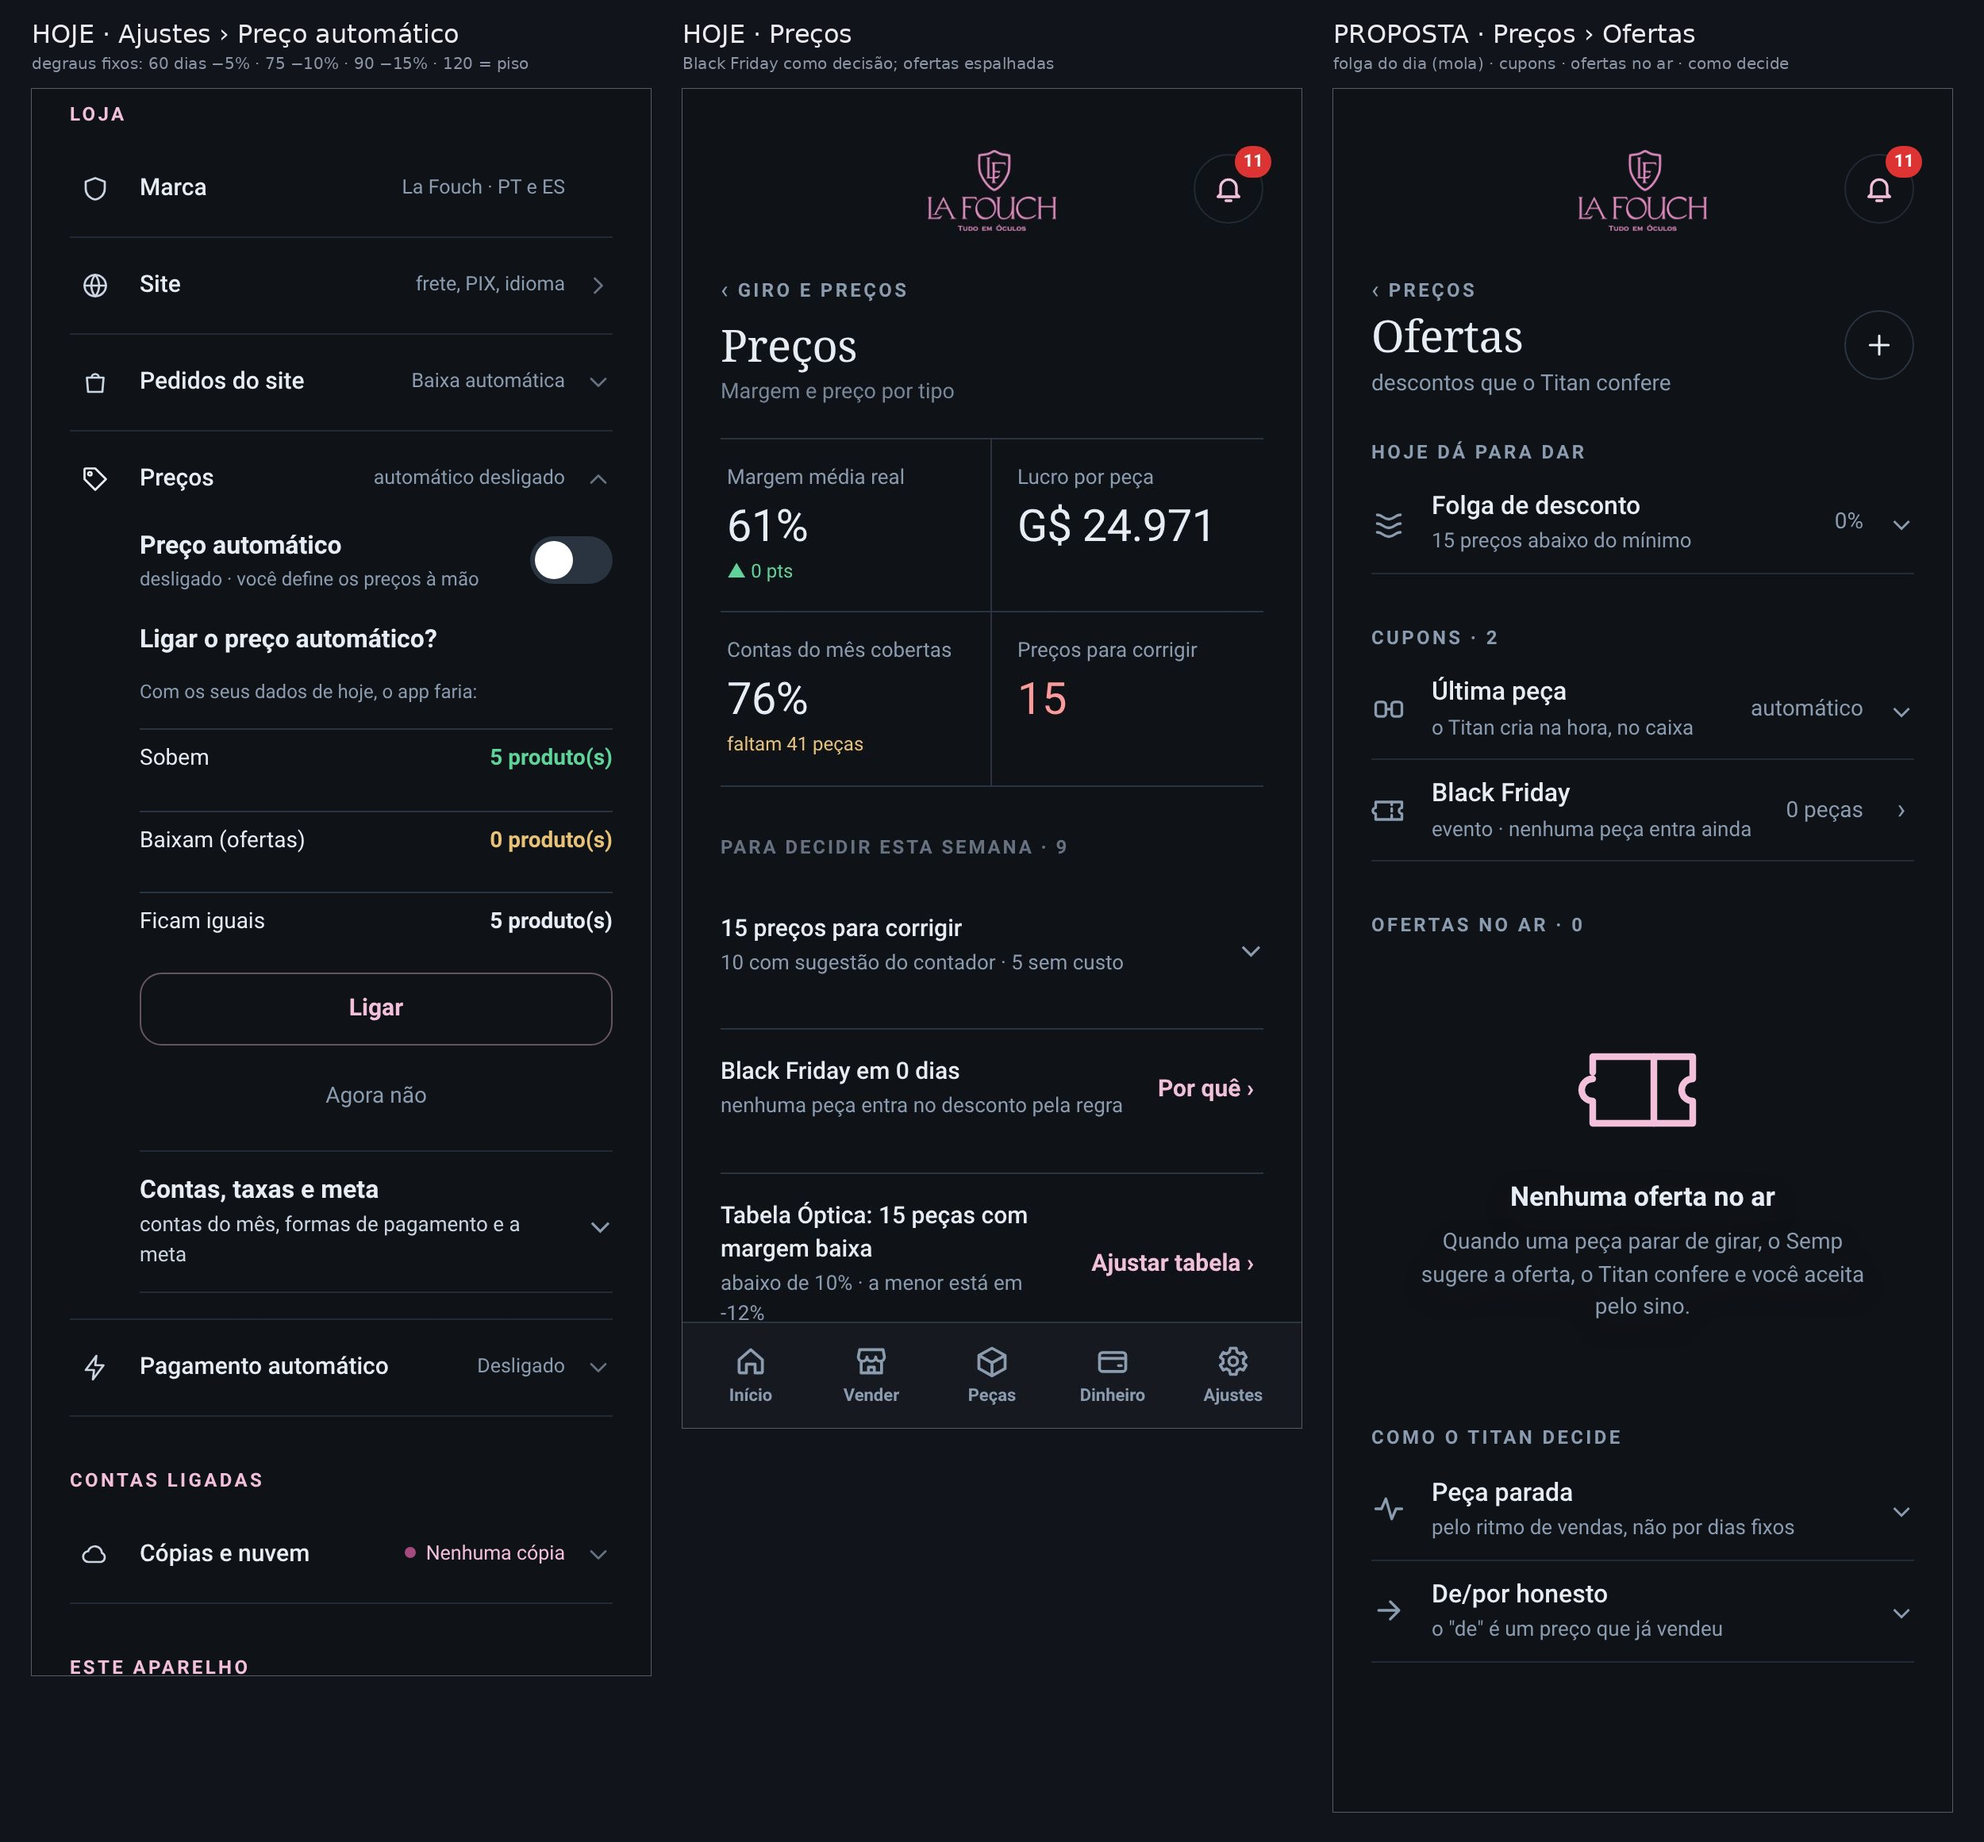
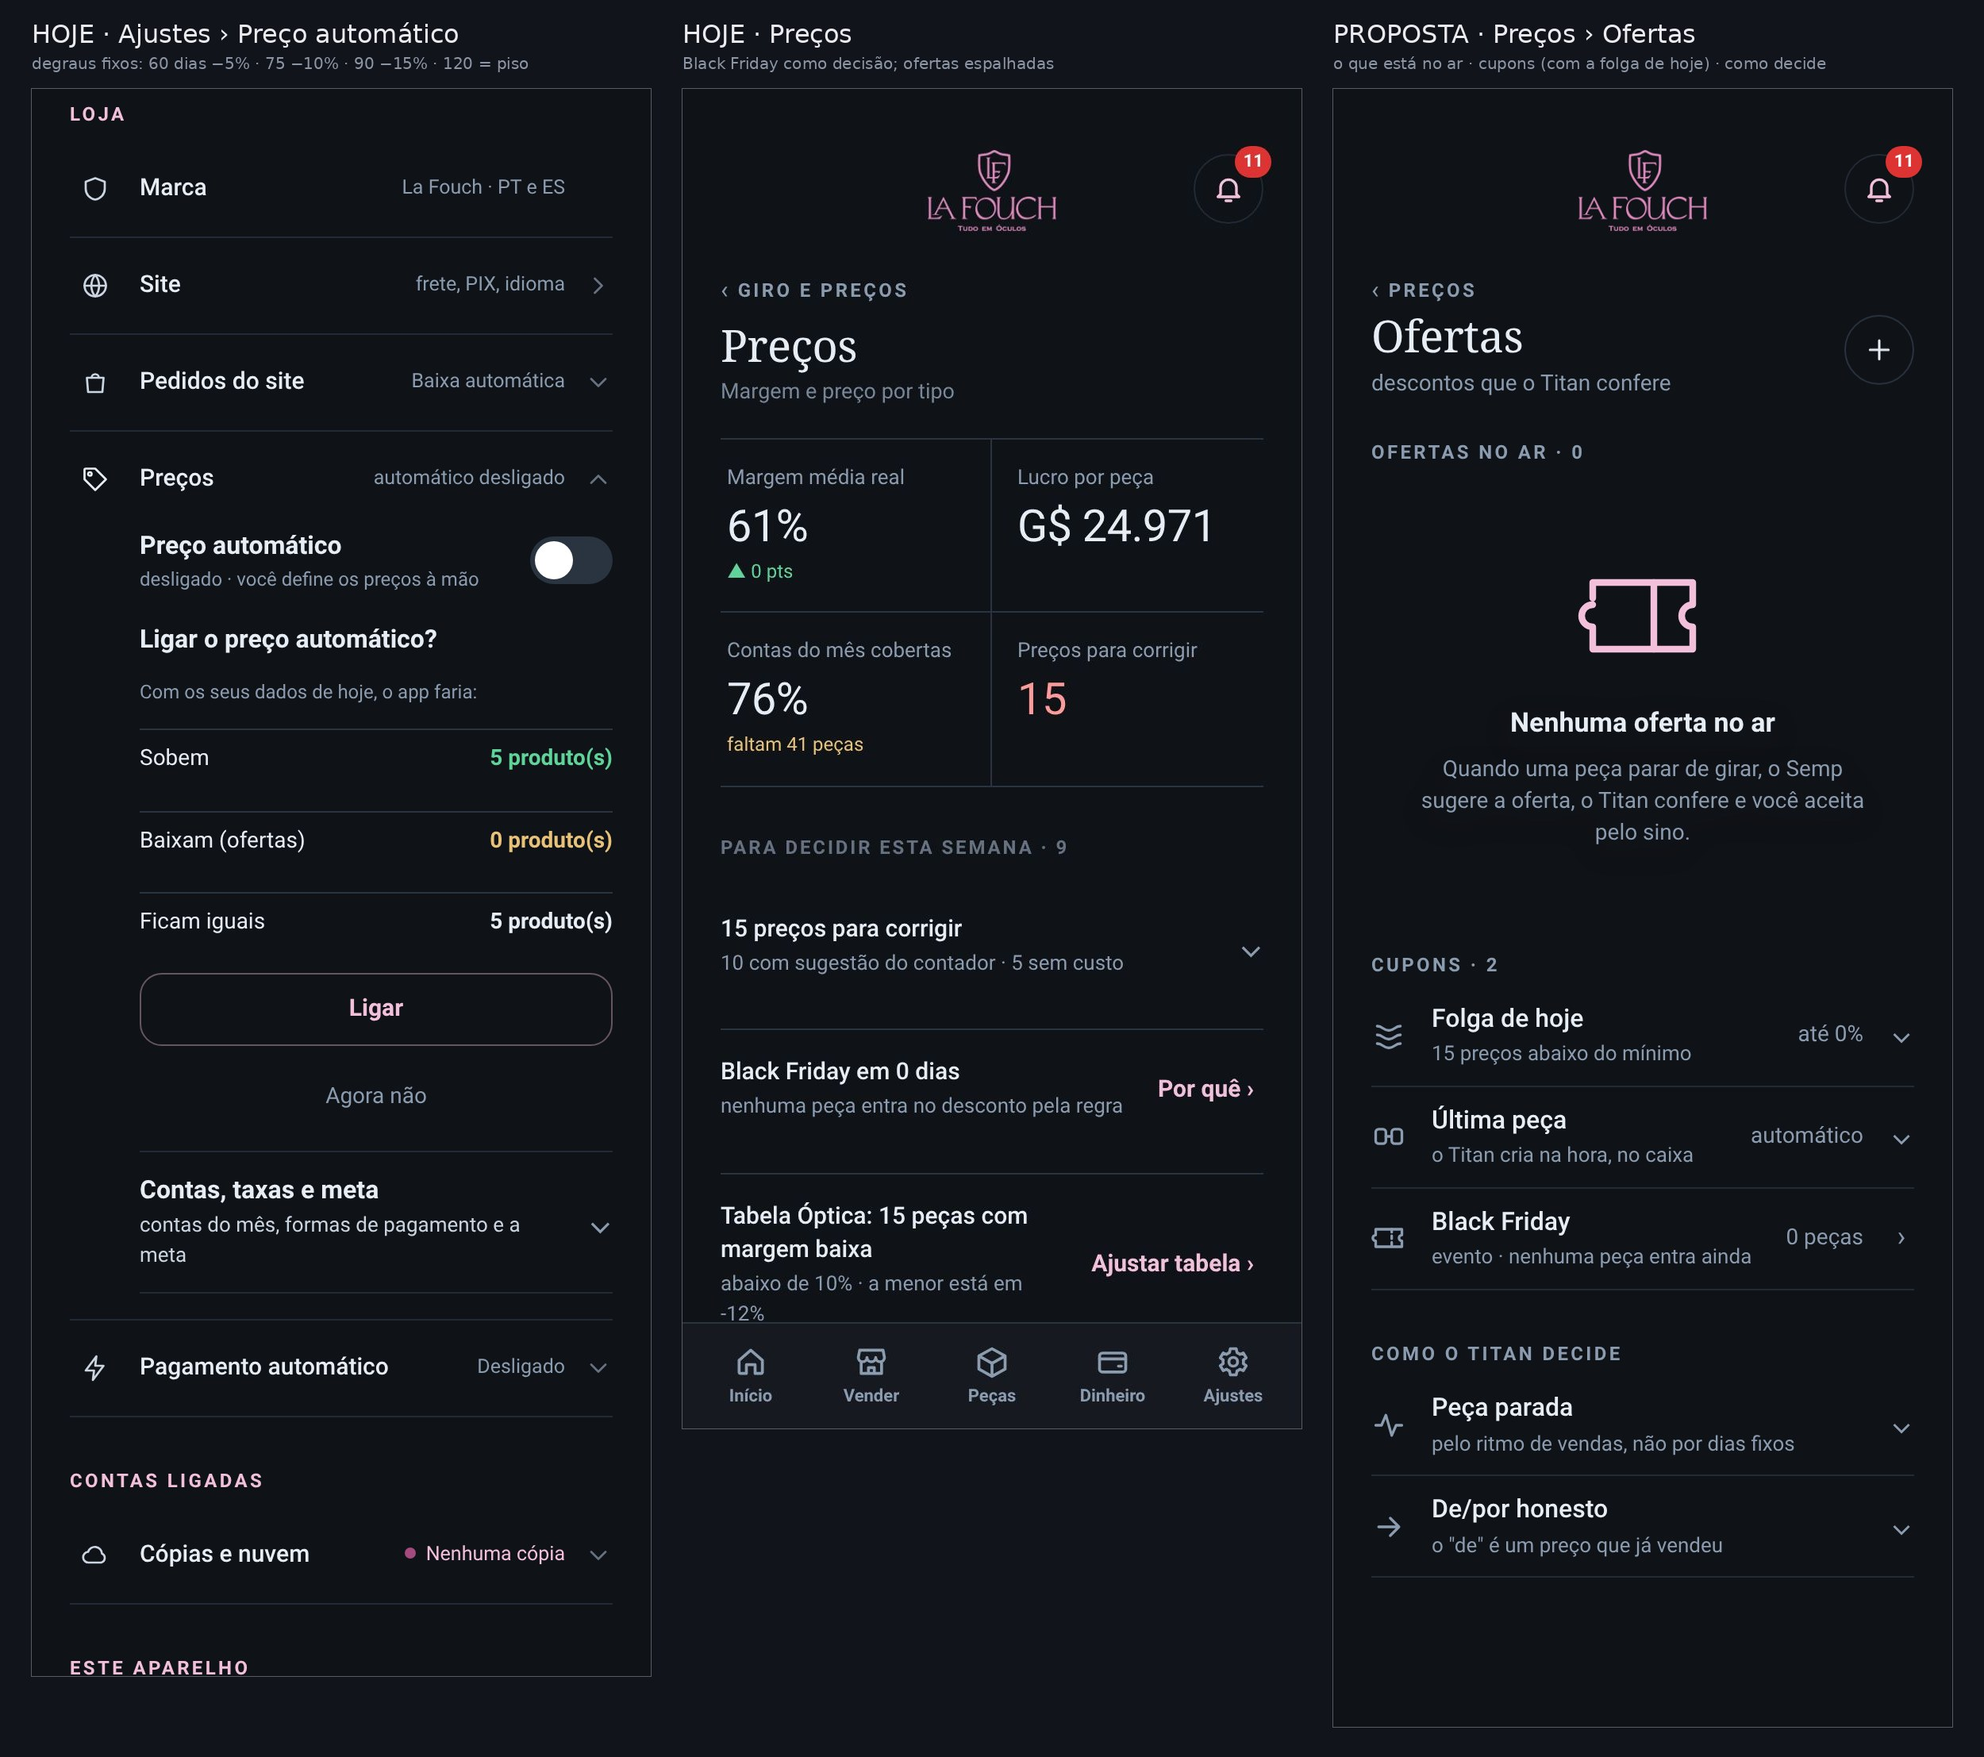
63: ordem nova
Claude-Session: https://claude.ai/code/session_01Vj5GPRt4UBskC3w8v52h7G

diff --git a/work/s435/titan/esboco_63.py b/work/s435/titan/esboco_63.py
@@ -16,13 +16,12 @@ def ofertas(pw,escuro=True):
   b,pg,w=ap.abre(pw,'inicio',escuro,'celular',base=True);w(500);pg.click('#mainnav .mn[data-id="g:pecas"]');w(900)
   pg.add_style_tag(content='#nvBar{display:none!important}#grTog,#iniTog2{visibility:hidden!important}')
   html=pg.evaluate("()=>{"+H+JS2+r"""return '<div class="e49">'+TOP('Preços','Ofertas','descontos que o Titan confere',1)+
-    T('Hoje dá para dar',1)+
-    R('mola','Folga de desconto','15 preços abaixo do mínimo','0%','⌄')+
+    T('Ofertas no ar · 0',1)+
+    lfVazioHtml(I.cup,'Nenhuma oferta no ar','Quando uma peça parar de girar, o Semp sugere a oferta, o Titan confere e você aceita pelo sino.').replace('<svg ','<svg data-i142="1" ')+
     T('Cupons · 2')+
+    R('mola','Folga de hoje','15 preços abaixo do mínimo','até 0%','⌄')+
     R('ult','Última peça','o Titan cria na hora, no caixa','automático','⌄')+
     R('cup','Black Friday','evento · nenhuma peça entra ainda','0 peças','›')+
-    T('Ofertas no ar · 0')+
-    lfVazioHtml(I.cup,'Nenhuma oferta no ar','Quando uma peça parar de girar, o Semp sugere a oferta, o Titan confere e você aceita pelo sino.').replace('<svg ','<svg data-i142="1" ')+
     T('Como o Titan decide')+
     R('flu','Peça parada','pelo ritmo de vendas, não por dias fixos','','⌄')+
     R('dp','De/por honesto','o "de" é um preço que já vendeu','','⌄')+'</div>'}""")
@@ -34,6 +33,6 @@ if __name__=='__main__':
   a=Image.open(O+'h63_auto.png');p=Image.open('/home/claude/lafouch/work/s435/selo/h_precos.jpg')
   quadro('esboco_63_ofertas_titan.jpg',[('HOJE · Ajustes › Preço automático','degraus fixos: 60 dias −5% · 75 −10% · 90 −15% · 120 = piso',a.crop((0,400,780,400+2000))),
     ('HOJE · Preços','Black Friday como decisão; ofertas espalhadas',p.crop((0,0,780,1688))),
-    ('PROPOSTA · Preços › Ofertas','folga do dia (mola) · cupons · ofertas no ar · como decide',ofertas(pw))])
+    ('PROPOSTA · Preços › Ofertas','o que está no ar · cupons (com a folga de hoje) · como decide',ofertas(pw))])
   quadro('esboco_63_ofertas_titan_claro.jpg',[('PROPOSTA · Ofertas (claro)','mesma tela no tema claro',ofertas(pw,False))])
  for n,f in REL: print(n,len(f),f[:4])

diff --git a/docs/FALTA-APROVAR-15-11.md b/docs/FALTA-APROVAR-15-11.md
@@ -1102,3 +1102,4 @@ Não são esquecimento (estavam na lista, parados de propósito ou por ordem do 
 - 22/11 12:30 · ESBOCO: esboço 63 enviado (escuro + claro) — escritório do Titan, setor OFERTAS: '+' (novo cupom) · Hoje dá para dar (Folga de desconto = a MOLA; hoje 0% porque 15 preços estão abaixo do mínimo) · Cupons (Última peça automático ⌄ · Black Friday ›) · Ofertas no ar (vazio: o Semp sugere, o Titan confere, o dono aceita pelo sino) · Como o Titan decide (Peça parada pelo ritmo de vendas, não por dias fixos ⌄ · De/por honesto ⌄). SAEM os degraus FIXOS do preço automático (60 dias −5% · 75 −10% · 90 −15% · 120 = piso, src/97-preco-auto.js:10). Dados reais do app de teste (sem cupons nem ofertas).
 - 22/11 12:20 · DONO APROVOU (IDEIAS 05 / Fila 61) — menu, busca e carrinho com UM movimento + temática: a camada cresce do botão tocado e volta para ele (abre 420 ms, fecha 280 ms, curva .16,1,.3,1); o botão tocado vira ✕ no mesmo lugar (sai o ✕ e o título MENU de dentro). CELULAR: camada em tela cheia embaixo do topo, sem desfoque; topo como hoje. PC/tablet (≥900): logo à esquerda; lupa · sacola · ☰ à direita (24 px); Minha conta sai do topo (fica o cartão no menu); menu abre pela direita; fundo desfocado (blur 14px) + site recua .97. Topo sempre à vista (resolve o B4). TEMÁTICA: a camada é a continuação do topo — cada tema só declara variáveis (fundo com pontinhos, texto, linha, cartão, ação); BF e Ano Novo noite = camadas escuras; 'Ofertas' do menu sem cor fixa. Esboços finais: work/ideias/05-animacoes/esboco-05c-*; como fazer: COMO-FAZER.md (v2+v3). Espera o IMPLEMENTAR (SITE). Em aberto: setinha › cinza no menu × cor do tema na busca.
 - 22/11 12:22 · DONO APROVOU (IDEIAS 05 / Fila 61, complemento): a setinha › das linhas fica CINZA (var(--mu)) no menu e na busca, em todos os temas; a cor do tema só no destaque ('Ofertas'). Uma regra só da família 'linha com ›'; sai '#sov .socat button i{color:var(--ac)}'.
+- 22/11 12:25 · DONO: design do 63 APROVADO, mas a ordem estava bagunçada → 63 refeito na ordem: Ofertas no ar (o que está acontecendo) · Cupons (Folga de hoje até X% como 1ª linha · Última peça · Black Friday) · Como o Titan decide. Perguntou se não vale já mandar implementar para não acumular — resposta em conversa (lembrar: dono 22/11 01:46 'a lista final da APP fica guardada até depois da fase do esboço famílias').

diff --git a/docs/MEMORIA-PROJETO.md b/docs/MEMORIA-PROJETO.md
@@ -3604,3 +3604,4 @@ Testar TUDO, com muita calma, antes de dizer que está pronto ou de publicar: ca
 - 22/11 12:30 · ESBOCO: esboço 63 enviado (escuro + claro) — escritório do Titan, setor OFERTAS: '+' (novo cupom) · Hoje dá para dar (Folga de desconto = a MOLA; hoje 0% porque 15 preços estão abaixo do mínimo) · Cupons (Última peça automático ⌄ · Black Friday ›) · Ofertas no ar (vazio: o Semp sugere, o Titan confere, o dono aceita pelo sino) · Como o Titan decide (Peça parada pelo ritmo de vendas, não por dias fixos ⌄ · De/por honesto ⌄). SAEM os degraus FIXOS do preço automático (60 dias −5% · 75 −10% · 90 −15% · 120 = piso, src/97-preco-auto.js:10). Dados reais do app de teste (sem cupons nem ofertas).
 - 22/11 12:20 · DONO APROVOU (IDEIAS 05 / Fila 61) — menu, busca e carrinho com UM movimento + temática: a camada cresce do botão tocado e volta para ele (abre 420 ms, fecha 280 ms, curva .16,1,.3,1); o botão tocado vira ✕ no mesmo lugar (sai o ✕ e o título MENU de dentro). CELULAR: camada em tela cheia embaixo do topo, sem desfoque; topo como hoje. PC/tablet (≥900): logo à esquerda; lupa · sacola · ☰ à direita (24 px); Minha conta sai do topo (fica o cartão no menu); menu abre pela direita; fundo desfocado (blur 14px) + site recua .97. Topo sempre à vista (resolve o B4). TEMÁTICA: a camada é a continuação do topo — cada tema só declara variáveis (fundo com pontinhos, texto, linha, cartão, ação); BF e Ano Novo noite = camadas escuras; 'Ofertas' do menu sem cor fixa. Esboços finais: work/ideias/05-animacoes/esboco-05c-*; como fazer: COMO-FAZER.md (v2+v3). Espera o IMPLEMENTAR (SITE). Em aberto: setinha › cinza no menu × cor do tema na busca.
 - 22/11 12:22 · DONO APROVOU (IDEIAS 05 / Fila 61, complemento): a setinha › das linhas fica CINZA (var(--mu)) no menu e na busca, em todos os temas; a cor do tema só no destaque ('Ofertas'). Uma regra só da família 'linha com ›'; sai '#sov .socat button i{color:var(--ac)}'.
+- 22/11 12:25 · DONO: design do 63 APROVADO, mas a ordem estava bagunçada → 63 refeito na ordem: Ofertas no ar (o que está acontecendo) · Cupons (Folga de hoje até X% como 1ª linha · Última peça · Black Friday) · Como o Titan decide. Perguntou se não vale já mandar implementar para não acumular — resposta em conversa (lembrar: dono 22/11 01:46 'a lista final da APP fica guardada até depois da fase do esboço famílias').
